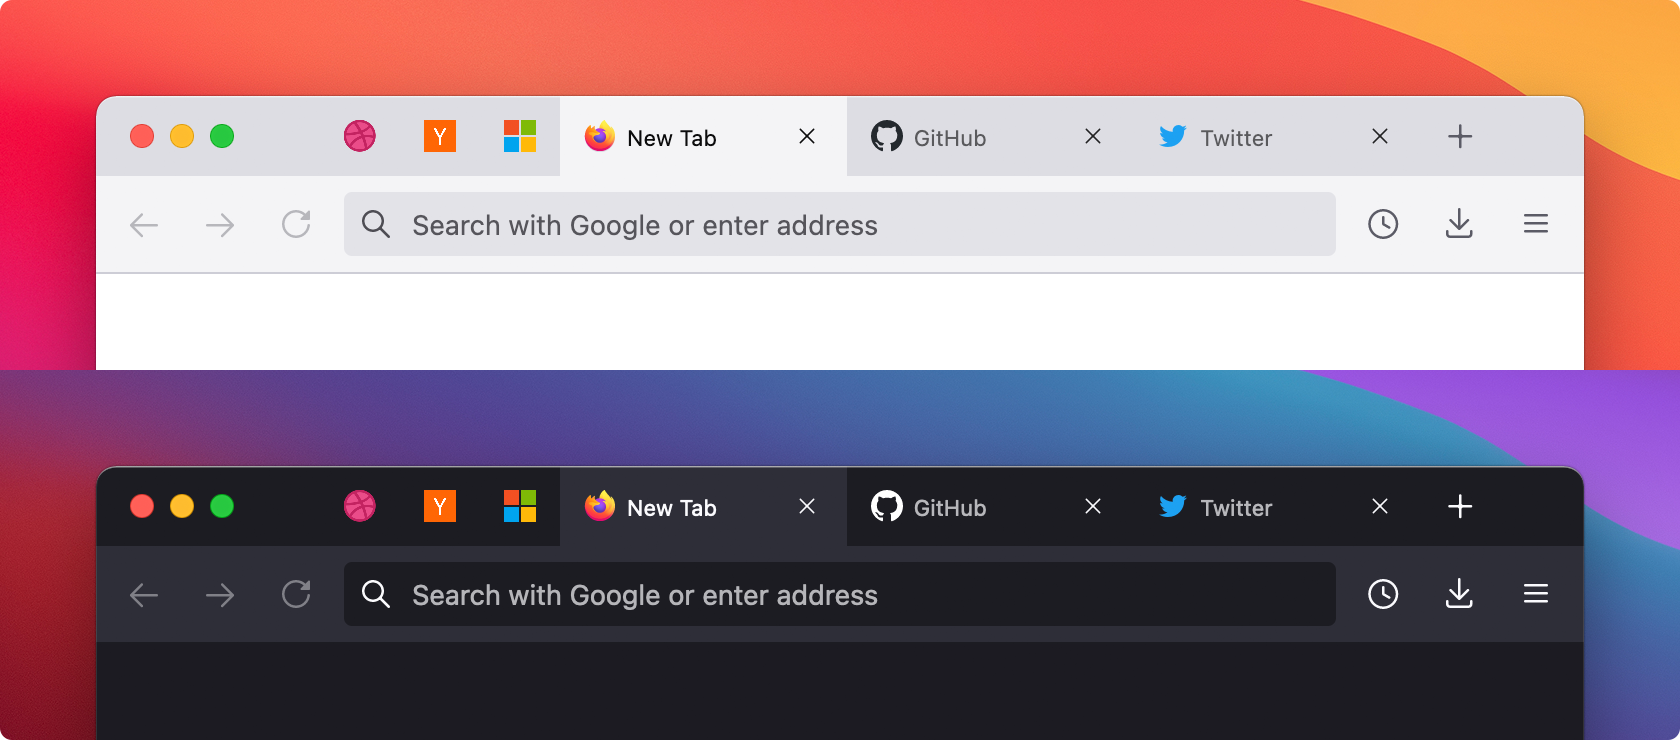
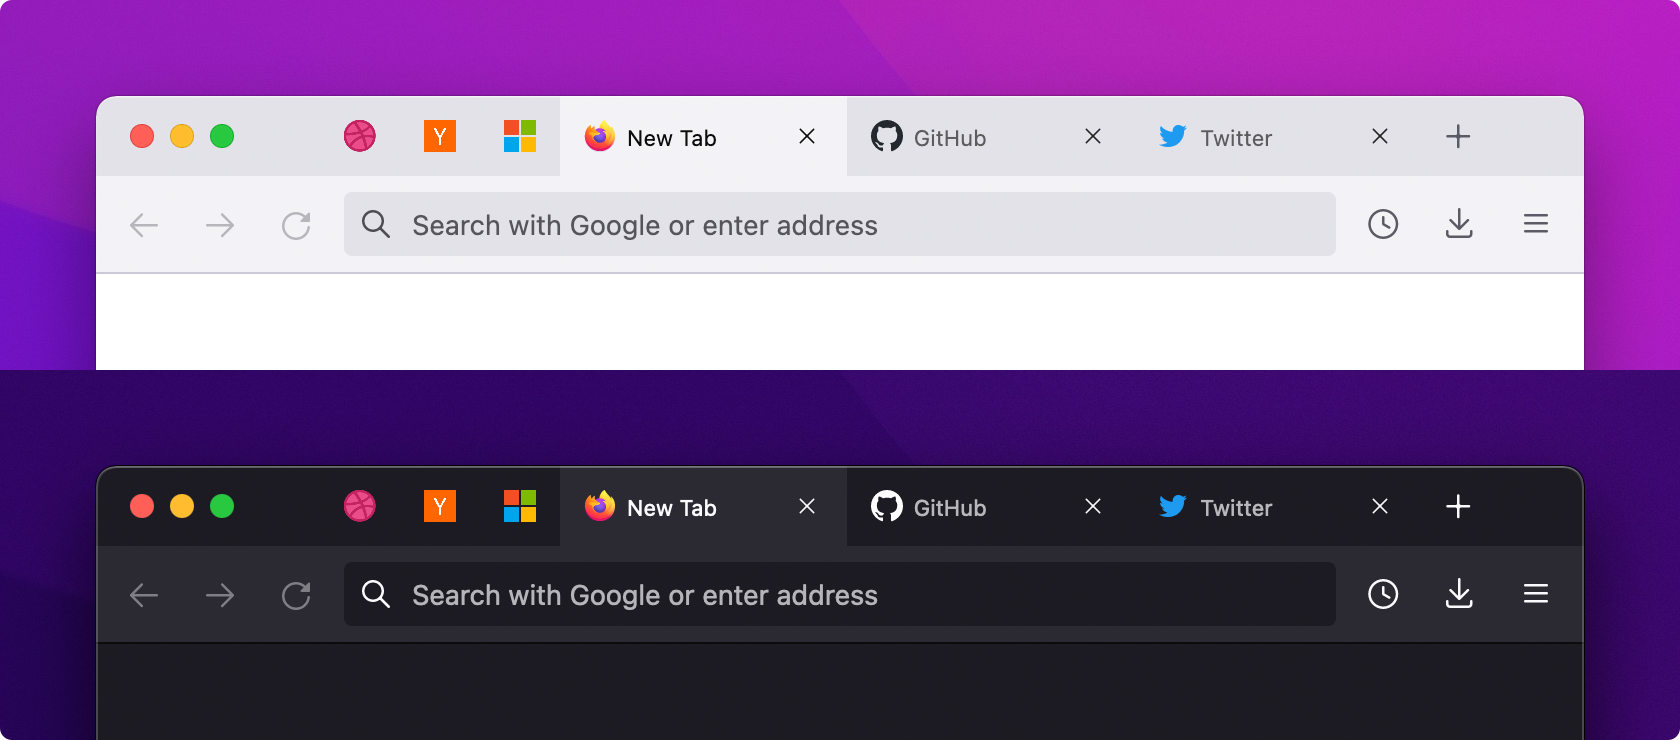
Remove deprecated selectors and update colors

diff --git a/chrome/userChrome.css b/chrome/userChrome.css
@@ -1,178 +1,176 @@
 /*!
- * Firefox Proton Custom v1.0.2
+ * Firefox Proton Custom v1.0.3
  * https://github.com/lrdn/firefox-proton-custom
  *
  * Copyright (c) 2021 LRDN <git@lrdn.net>
  * Released under the MIT license
  */
-@media (-moz-proton) {
-  :root {
-    --tab-min-height: 40px !important;
-    --inline-tab-padding: 12px !important;
-    --titlebar-spacer-width: 42px !important;
-    --toolbar-start-end-padding: 8px !important;
-    --toolbarbutton-inner-padding: 8px !important;
-    --toolbarbutton-outer-padding: 3px !important;
-    --bookmark-inline-margin: 2px !important;
-    --bookmark-block-padding: 4px !important;
-    --urlbar-icon-padding: 6px !important;
-    --urlbar-min-height: 32px !important;
-  }
+:root {
+  --tab-min-height: 40px !important;
+  --inline-tab-padding: 12px !important;
+  --titlebar-spacer-width: 42px !important;
+  --toolbar-start-end-padding: 8px !important;
+  --toolbarbutton-inner-padding: 8px !important;
+  --toolbarbutton-outer-padding: 3px !important;
+  --bookmark-inline-margin: 2px !important;
+  --bookmark-block-padding: 4px !important;
+  --urlbar-icon-padding: 6px !important;
+  --urlbar-min-height: 32px !important;
+}
 
-  :root[uidensity="compact"] {
-    --tab-min-height: 36px !important;
-    --inline-tab-padding: 10px !important;
-    --titlebar-spacer-width: 34px !important;
-    --toolbar-start-end-padding: 6px !important;
-    --toolbarbutton-inner-padding: 6px !important;
-    --toolbarbutton-outer-padding: 1px !important;
-    --bookmark-inline-margin: 1px !important;
-    --bookmark-block-padding: 4px !important;
-    --urlbar-icon-padding: 4px !important;
-    --urlbar-min-height: 28px !important;
-  }
+:root[uidensity="compact"] {
+  --tab-min-height: 36px !important;
+  --inline-tab-padding: 10px !important;
+  --titlebar-spacer-width: 34px !important;
+  --toolbar-start-end-padding: 6px !important;
+  --toolbarbutton-inner-padding: 6px !important;
+  --toolbarbutton-outer-padding: 1px !important;
+  --bookmark-inline-margin: 1px !important;
+  --bookmark-block-padding: 4px !important;
+  --urlbar-icon-padding: 4px !important;
+  --urlbar-min-height: 28px !important;
+}
 
-  :root[lwtheme-mozlightdark]:-moz-lwtheme-brighttext {
-    --toolbar-bgcolor: hsl(240, 10%, 20%) !important;
-    --lwt-accent-color: hsl(240, 10%, 12%) !important;
-    --lwt-toolbar-field-background-color: hsl(240, 10%, 12%) !important;
-    --toolbarbutton-hover-background: hsla(240, 80%, 90%, 0.175) !important;
-    --toolbarbutton-active-background: hsla(240, 80%, 90%, 0.225) !important;
-    --chrome-content-separator-color: hsl(240, 10%, 12%) !important;
-  }
+:root:-moz-lwtheme-brighttext:not(:-moz-lwtheme) {
+  --toolbar-bgcolor: hsl(240, 15%, 20%) !important;
+  --lwt-accent-color: hsl(240, 15%, 12%) !important;
+  --toolbar-field-background-color: hsl(240, 15%, 12%) !important;
+  --toolbarbutton-hover-background: hsla(240, 80%, 90%, 0.175) !important;
+  --toolbarbutton-active-background: hsla(240, 80%, 90%, 0.225) !important;
+  --chrome-content-separator-color: hsl(240, 15%, 12%) !important;
+}
 
-  :root[lwtheme-mozlightdark]:not(:-moz-lwtheme-brighttext) {
-    --toolbar-bgcolor: hsl(240, 10%, 96%) !important;
-    --lwt-accent-color: hsl(240, 10%, 88%) !important;
-    --toolbar-field-background-color: hsl(240, 10%, 90%) !important;
-    --lwt-toolbar-field-background-color: hsl(240, 10%, 90%) !important;
-    --toolbarbutton-hover-background: hsla(240, 80%, 10%, 0.075) !important;
-    --toolbarbutton-active-background: hsla(240, 80%, 10%, 0.125) !important;
-    --chrome-content-separator-color: hsl(240, 10%, 82%) !important;
-  }
+:root:not(:-moz-lwtheme-brighttext):not(:-moz-lwtheme) {
+  --toolbar-bgcolor: hsl(240, 15%, 96%) !important;
+  --lwt-accent-color: hsl(240, 15%, 90%) !important;
+  --toolbar-field-background-color: hsl(240, 15%, 90%) !important;
+  --toolbarbutton-hover-background: hsla(240, 80%, 15%, 0.075) !important;
+  --toolbarbutton-active-background: hsla(240, 80%, 15%, 0.125) !important;
+  --chrome-content-separator-color: hsl(240, 15%, 82%) !important;
+}
 
-  :root[lwtheme-mozlightdark] #navigator-toolbox {
-    background-color: var(--lwt-accent-color) !important;
-  }
+#navigator-toolbox:not(:-moz-lwtheme) {
+  background-color: var(--lwt-accent-color) !important;
+}
 
-  #toolbar-menubar:not([inactive]) {
-    height: auto !important;
-  }
+#toolbar-menubar:not([inactive]) {
+  height: auto !important;
+}
 
-  #TabsToolbar {
-    max-height: var(--tab-min-height) !important;
-  }
+#TabsToolbar {
+  max-height: var(--tab-min-height) !important;
+}
 
-  #TabsToolbar .titlebar-spacer {
-    width: var(--titlebar-spacer-width) !important;
-  }
+#TabsToolbar .titlebar-spacer {
+  width: var(--titlebar-spacer-width) !important;
+}
 
-  #TabsToolbar .titlebar-buttonbox-container:not(:last-child) .titlebar-buttonbox {
-    margin-left: calc(var(--tab-min-height) - 24px) !important;
-  }
+#TabsToolbar .titlebar-buttonbox-container .titlebar-color {
+  margin-left: calc(var(--tab-min-height) - 24px) !important;
+}
 
-  #tabbrowser-tabs .tabbrowser-tab {
-    padding-inline: unset !important;
-  }
+#tabbrowser-tabs .tabbrowser-tab {
+  padding-inline: unset !important;
+}
 
-  #tabbrowser-tabs .tabbrowser-tab .tab-background {
-    border-radius: unset !important;
-    margin-block: unset !important;
-    box-shadow: unset !important;
-  }
+#tabbrowser-tabs .tabbrowser-tab .tab-background {
+  border-radius: unset !important;
+  margin-block: unset !important;
+  box-shadow: unset !important;
+}
 
-  #tabbrowser-tabs .tabbrowser-tab .tab-background[selected] {
-    background-color: var(--toolbar-bgcolor) !important;
-    background-image: unset !important;
-  }
+#tabbrowser-tabs .tabbrowser-tab .tab-background[selected] {
+  background-color: var(--toolbar-bgcolor) !important;
+  background-image: unset !important;
+  border: none !important;
+}
 
-  #tabbrowser-tabs .tabbrowser-tab:hover .tab-background:not([selected]) {
-    background-color: var(--toolbarbutton-hover-background) !important;
-  }
+#tabbrowser-tabs .tabbrowser-tab:hover .tab-background:not([selected]) {
+  background-color: var(--toolbarbutton-hover-background) !important;
+}
 
-  #tabbrowser-tabs[haspinnedtabs] .tabbrowser-tab[first-visible-unpinned-tab] {
-    margin-left: 0 !important;
-  }
+#tabbrowser-tabs[haspinnedtabs] .tabbrowser-tab[first-visible-unpinned-tab] {
+  margin-left: 0 !important;
+}
 
-  #tabbrowser-tabs[haspinnedtabs] .tabbrowser-tab .tab-content[pinned] {
-    padding: 0 var(--inline-tab-padding) !important;
-  }
+#tabbrowser-tabs[haspinnedtabs] .tabbrowser-tab .tab-content[pinned] {
+  padding: 0 var(--inline-tab-padding) !important;
+}
 
-  #tabbrowser-tabs .tabbrowser-tab .tab-close-button {
-    margin-inline-end: -4px !important;
-  }
+#tabbrowser-tabs .tabbrowser-tab .tab-close-button {
+  margin-inline-end: -4px !important;
+}
 
-  #TabsToolbar .toolbar-items toolbarbutton {
-    padding: unset !important;
-    margin: unset !important;
-  }
+#TabsToolbar .toolbar-items toolbarbutton {
+  padding: unset !important;
+  margin: unset !important;
+}
 
-  #TabsToolbar .toolbar-items .toolbarbutton-icon,
-  #TabsToolbar .toolbar-items .toolbarbutton-badge-stack {
-    border-radius: unset !important;
-  }
+#TabsToolbar .toolbar-items .toolbarbutton-icon,
+#TabsToolbar .toolbar-items .toolbarbutton-badge-stack {
+  border-radius: unset !important;
+}
 
-  #scrollbutton-up,
-  #scrollbutton-down {
-    border-radius: unset !important;
-    border: unset !important;
-  }
+#scrollbutton-up,
+#scrollbutton-down {
+  border-radius: unset !important;
+  border: unset !important;
+}
 
-  #scrollbutton-up {
-    padding-left: calc(var(--inline-tab-padding) - 1px) !important;
-    padding-right: calc(var(--inline-tab-padding) + 1px) !important;
-  }
+#scrollbutton-up {
+  padding-left: calc(var(--inline-tab-padding) - 1px) !important;
+  padding-right: calc(var(--inline-tab-padding) + 1px) !important;
+}
 
-  #scrollbutton-down {
-    padding-left: calc(var(--inline-tab-padding) + 1px) !important;
-    padding-right: calc(var(--inline-tab-padding) - 1px) !important;
-  }
+#scrollbutton-down {
+  padding-left: calc(var(--inline-tab-padding) + 1px) !important;
+  padding-right: calc(var(--inline-tab-padding) - 1px) !important;
+}
 
-  #new-tab-button .toolbarbutton-icon,
-  #tabs-newtab-button .toolbarbutton-icon {
-    padding: calc(var(--toolbarbutton-inner-padding) - 0.5px) !important;
-    padding-right: calc(var(--toolbarbutton-inner-padding) + 0.5px) !important;
-    padding-bottom: calc(var(--toolbarbutton-inner-padding) + 0.5px) !important;
-  }
+#new-tab-button .toolbarbutton-icon,
+#tabs-newtab-button .toolbarbutton-icon {
+  padding: calc(var(--toolbarbutton-inner-padding) - 0.5px) !important;
+  padding-right: calc(var(--toolbarbutton-inner-padding) + 0.5px) !important;
+  padding-bottom: calc(var(--toolbarbutton-inner-padding) + 0.5px) !important;
+}
 
-  #alltabs-button .toolbarbutton-badge-stack {
-    padding: var(--toolbarbutton-inner-padding) !important;
-    padding-top: calc(var(--toolbarbutton-inner-padding) + 1px) !important;
-    padding-bottom: calc(var(--toolbarbutton-inner-padding) - 1px) !important;
-  }
+#alltabs-button .toolbarbutton-badge-stack {
+  padding: var(--toolbarbutton-inner-padding) !important;
+  padding-top: calc(var(--toolbarbutton-inner-padding) + 1px) !important;
+  padding-bottom: calc(var(--toolbarbutton-inner-padding) - 1px) !important;
+}
 
-  #urlbar-container {
-    padding: var(--toolbar-start-end-padding) 0 !important;
-  }
+#urlbar-container {
+  padding: var(--toolbar-start-end-padding) 0 !important;
+}
 
-  #urlbar-search-splitter {
-    min-width: calc(var(--toolbar-start-end-padding) + 2px) !important;
-  }
+#urlbar-search-splitter {
+  min-width: calc(var(--toolbar-start-end-padding) + 2px) !important;
+}
 
-  #PersonalToolbar {
-    padding-inline: calc(var(--toolbar-start-end-padding) + var(--bookmark-inline-margin)) !important;
-    overflow-y: visible !important;
-    position: relative !important;
-    transition: unset !important;
-  }
+#PersonalToolbar {
+  padding-inline: calc(var(--toolbar-start-end-padding) + var(--bookmark-inline-margin)) !important;
+  overflow-y: visible !important;
+  position: relative !important;
+  transition: unset !important;
+}
 
-  #PersonalToolbar:not([customizing]) {
-    padding-bottom: calc(var(--toolbar-start-end-padding) - 4px) !important;
-  }
+#PersonalToolbar:not([customizing]) {
+  padding-bottom: calc(var(--toolbar-start-end-padding) - 4px) !important;
+}
 
-  #PersonalToolbar toolbarbutton {
-    margin-inline: var(--bookmark-inline-margin) !important;
-  }
+#PersonalToolbar toolbarbutton {
+  margin-inline: var(--bookmark-inline-margin) !important;
+}
 
-  #PersonalToolbar toolbaritem {
-    margin-inline: unset !important;
-  }
+#PersonalToolbar toolbaritem {
+  margin-inline: unset !important;
+}
 
-  #PersonalToolbar > toolbarbutton {
-    margin-top: -2px !important;
-  }
+#PersonalToolbar > toolbarbutton {
+  margin-top: -2px !important;
+}
 
-  #PersonalToolbar > toolbaritem {
-    margin-top: -4px !important;
-  }
+#PersonalToolbar > toolbaritem {
+  margin-top: -4px !important;
 }
